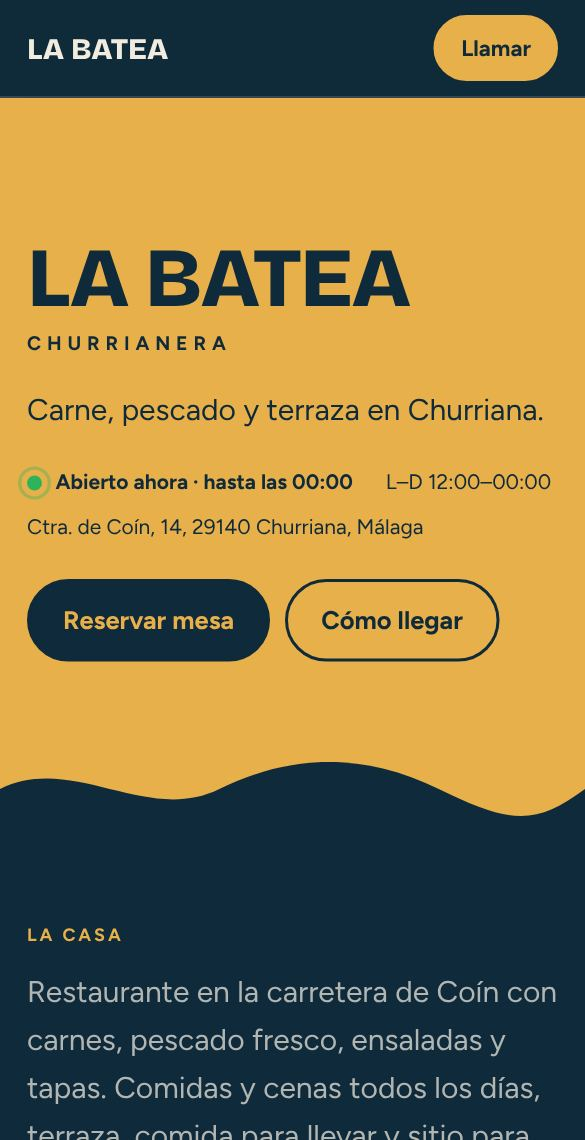
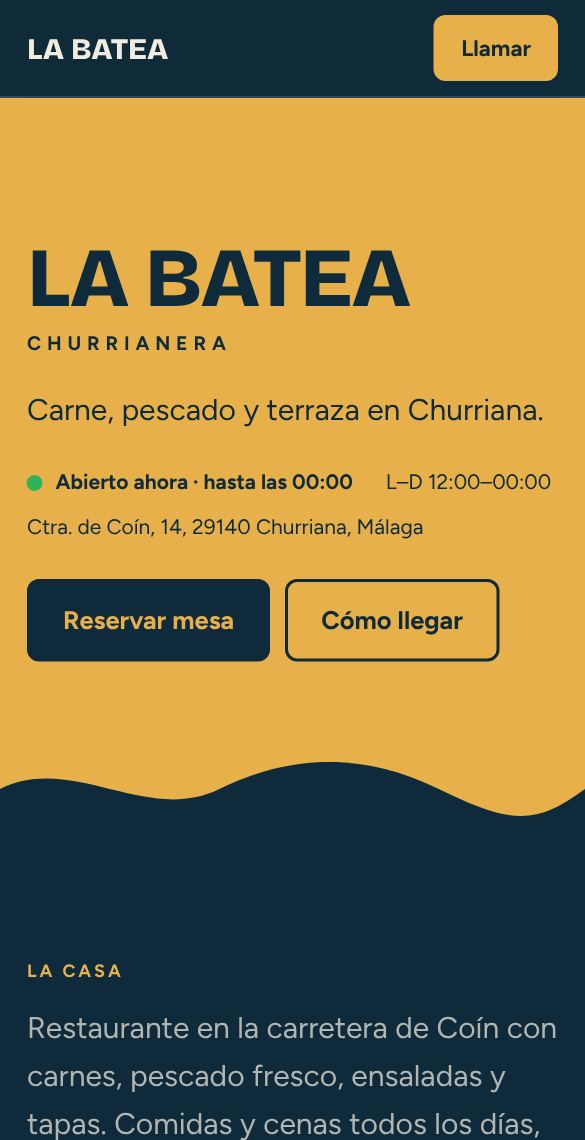
Reservas con botones propios, mapa integrado y más diferencias entre demos
- Reserva sin selectores del sistema: botones para qué, día (solo los que
  abre) y hora (cada media hora según el horario), y contador de personas
- Mapa de OpenStreetMap integrado, en tarjeta, a todo lo ancho o enmarcado
- Horario en cuatro vistas: filas, semana en casillas, agrupado y «hoy»
- Esquinas redondas, suaves o rectas en todo (botones, campos y tarjetas) y
  secciones separadas por líneas, bandas alternas o solo aire

Claude-Session: https://claude.ai/code/session_01Y5Q5chJFMzg78rRPrtv29V

diff --git a/src/styles/demo.css b/src/styles/demo.css
@@ -5,7 +5,9 @@
   --linea: color-mix(in srgb, var(--tinta) 16%, var(--fondo));
   --panel: color-mix(in srgb, var(--tinta) 6%, var(--fondo));
   --texto: 'Figtree Variable', system-ui, -apple-system, 'Segoe UI', sans-serif;
-  --radio: 14px;
+  --radio: 16px;
+  --radio-boton: 999px;
+  --radio-campo: 12px;
   --abierto: #2fb35a;
   --cerrado: #d0573f;
   color-scheme: dark light;
@@ -43,7 +45,7 @@ p { margin: 0; }
 /* Botones */
 .boton {
   display: inline-flex; align-items: center; justify-content: center; gap: 8px; min-height: 48px;
-  padding: 12px 22px; border-radius: 999px; font: inherit; font-weight: 700; text-decoration: none; cursor: pointer;
+  padding: 12px 22px; border-radius: var(--radio-boton); font: inherit; font-weight: 700; text-decoration: none; cursor: pointer;
   border: 2px solid var(--tinta); background: transparent; color: var(--tinta);
 }
 .boton.principal { background: var(--acento); border-color: var(--acento); color: var(--sobre-acento); }
@@ -96,12 +98,12 @@ p { margin: 0; }
 
 /* Carta */
 .saltos { display: flex; flex-wrap: wrap; gap: 8px; margin-bottom: 28px; }
-.saltos a { text-decoration: none; font-size: 13px; font-weight: 700; letter-spacing: .08em; text-transform: uppercase; padding: 8px 14px; border: 1px solid var(--linea); border-radius: 999px; }
+.saltos a { text-decoration: none; font-size: 13px; font-weight: 700; letter-spacing: .08em; text-transform: uppercase; padding: 8px 14px; border: 1px solid var(--linea); border-radius: var(--radio-boton); }
 .saltos a:hover { border-color: var(--acento); }
 .grupos { display: grid; gap: 22px; }
 @media (min-width: 900px) { .grupos { grid-template-columns: repeat(2, minmax(0, 1fr)); align-items: start; } }
 .grupo { border: 1px solid var(--linea); border-radius: var(--radio); padding: 22px; background: var(--panel); }
-.grupo h3 { display: inline-block; background: var(--acento); color: var(--sobre-acento); font-family: var(--texto); font-size: 13px; letter-spacing: .14em; text-transform: uppercase; padding: 4px 10px; border-radius: 6px; margin-bottom: 14px; }
+.grupo h3 { display: inline-block; background: var(--acento); color: var(--sobre-acento); font-family: var(--texto); font-size: 13px; letter-spacing: .14em; text-transform: uppercase; padding: 4px 10px; border-radius: var(--radio-campo); margin-bottom: 14px; }
 .platos { list-style: none; margin: 0; padding: 0; }
 .plato { width: 100%; display: grid; grid-template-columns: minmax(0, 1fr) auto; gap: 4px 16px; text-align: left; background: none; border: 0; border-bottom: 1px dashed var(--linea); padding: 12px 0; font: inherit; color: inherit; cursor: pointer; }
 .platos li:last-child .plato { border-bottom: 0; }
@@ -113,9 +115,9 @@ p { margin: 0; }
 .nota-carta { color: var(--suave); font-size: 14px; margin-top: 18px; }
 
 /* Lista de lo que te vas a pedir */
-.tira { position: fixed; left: 50%; transform: translateX(-50%); bottom: calc(86px + env(safe-area-inset-bottom, 0px)); z-index: 35; display: flex; align-items: center; gap: 12px; background: var(--acento); color: var(--sobre-acento); border: 0; border-radius: 999px; padding: 12px 20px; font: inherit; font-weight: 700; box-shadow: 0 10px 30px rgb(0 0 0 / .35); cursor: pointer; white-space: nowrap; }
+.tira { position: fixed; left: 50%; transform: translateX(-50%); bottom: calc(86px + env(safe-area-inset-bottom, 0px)); z-index: 35; display: flex; align-items: center; gap: 12px; background: var(--acento); color: var(--sobre-acento); border: 0; border-radius: var(--radio-boton); padding: 12px 20px; font: inherit; font-weight: 700; box-shadow: 0 10px 30px rgb(0 0 0 / .35); cursor: pointer; white-space: nowrap; }
 @media (min-width: 900px) { .tira { bottom: 24px; } }
-.lista-dialogo { border: 0; border-radius: 18px; padding: 0; width: min(440px, calc(100vw - 24px)); background: var(--fondo); color: var(--tinta); box-shadow: 0 30px 80px rgb(0 0 0 / .5); }
+.lista-dialogo { border: 0; border-radius: var(--radio); padding: 0; width: min(440px, calc(100vw - 24px)); background: var(--fondo); color: var(--tinta); box-shadow: 0 30px 80px rgb(0 0 0 / .5); }
 .lista-dialogo::backdrop { background: rgb(0 0 0 / .55); }
 .lista-cuerpo { padding: 22px; display: grid; gap: 14px; }
 .lista-cuerpo ul { list-style: none; margin: 0; padding: 0; display: grid; gap: 8px; }
@@ -130,7 +132,7 @@ p { margin: 0; }
 .formulario { display: grid; gap: 14px; background: var(--panel); border: 1px solid var(--linea); border-radius: var(--radio); padding: 22px; }
 .fila { display: grid; grid-template-columns: repeat(auto-fit, minmax(140px, 1fr)); gap: 14px; }
 .formulario label { display: grid; gap: 6px; font-size: 14px; font-weight: 700; }
-.formulario input, .formulario select, .formulario textarea { font: inherit; font-weight: 400; color: var(--tinta); background: var(--fondo); border: 1px solid var(--linea); border-radius: 10px; padding: 11px 12px; min-height: 46px; width: 100%; }
+.formulario input, .formulario select, .formulario textarea { font: inherit; font-weight: 400; color: var(--tinta); background: var(--fondo); border: 1px solid var(--linea); border-radius: var(--radio-campo); padding: 11px 12px; min-height: 46px; width: 100%; }
 .formulario textarea { min-height: 80px; resize: vertical; }
 .formulario .ayuda { font-size: 13px; color: var(--suave); }
 
@@ -138,13 +140,12 @@ p { margin: 0; }
 .resena { display: grid; gap: 10px; }
 .estrellas { color: var(--acento); letter-spacing: 2px; }
 
-/* Horario y dónde */
-.donde { display: grid; gap: 28px; }
-@media (min-width: 900px) { .donde { grid-template-columns: repeat(2, minmax(0, 1fr)); } }
-.horario { width: 100%; border-collapse: collapse; font-variant-numeric: tabular-nums; }
-.horario th, .horario td { text-align: left; padding: 10px 0; border-bottom: 1px solid var(--linea); }
-.horario td { text-align: right; }
-.horario tr.hoy th, .horario tr.hoy td { color: var(--acento); font-weight: 700; }
+/* Dónde y horario */
+.donde { display: grid; gap: 32px; }
+@media (min-width: 900px) {
+  .donde { grid-template-columns: repeat(2, minmax(0, 1fr)); }
+  .donde .mapa { grid-column: 1 / -1; }
+}
 .direccion { font-size: 20px; font-weight: 700; }
 
 /* Preguntas */
@@ -157,15 +158,14 @@ p { margin: 0; }
 
 /* Barra fija del móvil */
 .barra-movil { position: fixed; inset: auto 0 0 0; z-index: 40; display: grid; grid-template-columns: repeat(3, 1fr); gap: 8px; padding: 8px max(10px, env(safe-area-inset-right, 0px)) calc(8px + env(safe-area-inset-bottom, 0px)) max(10px, env(safe-area-inset-left, 0px)); background: color-mix(in srgb, var(--fondo) 94%, transparent); backdrop-filter: blur(12px); border-top: 1px solid var(--linea); }
-.barra-movil a { display: flex; align-items: center; justify-content: center; min-height: 52px; border-radius: 14px; background: var(--panel); border: 1px solid var(--linea); font-weight: 700; font-size: 15px; text-decoration: none; }
+.barra-movil a { display: flex; align-items: center; justify-content: center; min-height: 52px; border-radius: var(--radio-campo); background: var(--panel); border: 1px solid var(--linea); font-weight: 700; font-size: 15px; text-decoration: none; }
 .barra-movil a.fuerte { background: var(--acento); color: var(--sobre-acento); border-color: var(--acento); }
 @media (min-width: 900px) { .barra-movil { display: none; } }
 
 /* ── Variantes: cada negocio combina portada, adorno, carta y forma ─────── */
 
-[data-forma='recto'] { --radio: 3px; }
-[data-forma='recto'] .boton { border-radius: 4px; }
-[data-forma='recto'] .barra-movil a { border-radius: 4px; }
+[data-forma='suave'] { --radio: 8px; --radio-boton: 8px; --radio-campo: 6px; }
+[data-forma='recto'] { --radio: 0px; --radio-boton: 0px; --radio-campo: 0px; }
 
 .plato .puntos { display: none; }
 
@@ -218,3 +218,63 @@ p { margin: 0; }
 /* Aviso del modo prueba */
 .aviso-prueba { position: relative; background: #1f6feb; color: #fff; font-size: 14px; font-weight: 600; text-align: center; padding: 10px max(18px, env(safe-area-inset-left, 0px)); }
 .aviso-prueba a { color: #fff; }
+
+
+/* ── Secciones: líneas, bandas alternas o solo aire ────────────────────── */
+[data-secciones='bandas'] .seccion + .seccion { border-top: 0; }
+[data-secciones='bandas'] main > .seccion:nth-of-type(odd) { background: var(--panel); }
+[data-secciones='aire'] .seccion + .seccion { border-top: 0; }
+[data-secciones='aire'] .seccion { padding-block: 88px; }
+
+/* ── Mapa integrado ────────────────────────────────────────────────────── */
+.mapa { margin: 0; overflow: hidden; border-radius: var(--radio); border: 1px solid var(--linea); background: var(--panel); }
+.mapa iframe { display: block; width: 100%; height: 320px; border: 0; }
+.mapa-grande { border-radius: 0; border-inline: 0; margin-inline: calc(-1 * max(18px, env(safe-area-inset-left, 0px))); }
+.mapa-grande iframe { height: 420px; }
+@media (min-width: 1080px) { .mapa-grande { margin-inline: calc((1080px - 100vw) / 2); } }
+.mapa-enmarcado { padding: 10px; border: 1px solid var(--acento); outline: 1px solid var(--linea); outline-offset: 5px; }
+.mapa-enmarcado iframe { filter: sepia(.35) saturate(.8); height: 300px; }
+
+/* ── Horario: cuatro vistas ────────────────────────────────────────────── */
+.h-filas { width: 100%; border-collapse: collapse; font-variant-numeric: tabular-nums; }
+.h-filas th, .h-filas td { text-align: left; padding: 10px 0; border-bottom: 1px solid var(--linea); }
+.h-filas td { text-align: right; }
+.h-filas tr.hoy th, .h-filas tr.hoy td { color: var(--acento); font-weight: 700; }
+
+.h-semana { list-style: none; margin: 0; padding: 0; display: grid; grid-template-columns: repeat(7, minmax(0, 1fr)); gap: 6px; font-variant-numeric: tabular-nums; }
+.h-semana li { display: grid; gap: 4px; justify-items: center; padding: 12px 2px; border-radius: var(--radio-campo); background: var(--panel); border: 1px solid var(--linea); font-size: 12px; text-align: center; }
+.h-semana b { font-family: var(--display); font-size: 22px; line-height: 1; }
+.h-semana .cerrado { color: var(--suave); writing-mode: vertical-rl; transform: rotate(180deg); }
+.h-semana li.hoy { background: var(--acento); color: var(--sobre-acento); border-color: var(--acento); }
+
+.h-agrupado { list-style: none; margin: 0; padding: 0; display: grid; gap: 18px; text-align: center; }
+.h-agrupado li { display: grid; gap: 2px; }
+.h-agrupado span { font-size: 13px; letter-spacing: .16em; text-transform: uppercase; color: var(--suave); }
+.h-agrupado strong { font-family: var(--display); font-size: 26px; font-weight: 500; font-variant-numeric: tabular-nums; }
+.h-agrupado li.hoy span { color: var(--acento); }
+[data-estilo='elegante'] .donde-horario .cabeza { text-align: center; }
+
+.h-hoy { display: grid; gap: 14px; }
+.h-hoy-etq { font-size: 13px; font-weight: 700; letter-spacing: .16em; text-transform: uppercase; color: var(--acento); }
+.h-hoy-horas { font-family: var(--display); font-weight: 800; font-size: clamp(36px, 9vw, 56px); line-height: 1; font-variant-numeric: tabular-nums; }
+.h-resto { list-style: none; margin: 0; padding: 0; color: var(--suave); font-size: 15px; display: grid; gap: 4px; }
+.h-resto li.hoy { color: var(--tinta); }
+
+/* ── Reserva con botones propios (sin selectores del sistema) ──────────── */
+.paso { border: 0; margin: 0; padding: 0; display: grid; gap: 10px; min-width: 0; }
+.paso legend { font-size: 14px; font-weight: 700; padding: 0; margin-bottom: 10px; }
+.chips { display: flex; flex-wrap: wrap; gap: 8px; }
+.chips.desliza { flex-wrap: nowrap; overflow-x: auto; scrollbar-width: none; padding-bottom: 4px; margin-inline: -4px; padding-inline: 4px; scroll-snap-type: x proximity; }
+.chips.desliza::-webkit-scrollbar { display: none; }
+.chip { position: relative; flex: none; scroll-snap-align: start; }
+.chip input { position: absolute; opacity: 0; pointer-events: none; }
+.chip span { display: grid; justify-items: center; gap: 2px; min-width: 64px; min-height: 46px; align-content: center; padding: 8px 14px; border: 1.5px solid var(--linea); border-radius: var(--radio-campo); background: var(--fondo); font-weight: 700; font-size: 15px; cursor: pointer; font-variant-numeric: tabular-nums; }
+.chip.dia span { text-transform: capitalize; }
+.chip small { font-weight: 400; font-size: 12px; color: var(--suave); text-transform: none; }
+.chip input:checked + span { background: var(--acento); border-color: var(--acento); color: var(--sobre-acento); }
+.chip input:checked + span small { color: inherit; opacity: .8; }
+.chip input:focus-visible + span { outline: 3px solid var(--acento); outline-offset: 2px; }
+.contador { display: inline-grid; grid-template-columns: 52px 64px 52px; align-items: center; border: 1.5px solid var(--linea); border-radius: var(--radio-campo); overflow: hidden; justify-self: start; }
+.contador button { height: 50px; border: 0; background: var(--panel); color: var(--tinta); font: inherit; font-size: 24px; cursor: pointer; }
+.contador output { text-align: center; font-weight: 800; font-size: 20px; font-variant-numeric: tabular-nums; }
+.aviso-reserva { color: var(--cerrado); font-weight: 700; }

diff --git a/src/scripts/reserva.ts b/src/scripts/reserva.ts
@@ -1,24 +1,90 @@
-// Reserva sin servidor ni API de pago: el formulario monta el mensaje y abre
-// WhatsApp con él escrito. Si el negocio no tiene WhatsApp, lleva al teléfono.
-export function iniciarReserva(negocio: string) {
+// Reserva sin servidor ni API de pago, y sin los selectores del sistema (el
+// desplegable y el calendario de Android rompen el diseño): días y horas son
+// botones generados con el horario del local. Al enviar se abre WhatsApp con el
+// mensaje ya escrito; si el negocio no tiene WhatsApp, lleva al teléfono.
+import { porDia, aMinutos, ahoraEnMadrid, type Dia } from '../lib/horario';
+
+type Tramo = { dia: Dia; abre: string; cierra: string };
+const DIA_JS: Dia[] = ['domingo', 'lunes', 'martes', 'miercoles', 'jueves', 'viernes', 'sabado'];
+const hh = (m: number) => `${String(Math.floor(m / 60) % 24).padStart(2, '0')}:${String(m % 60).padStart(2, '0')}`;
+
+/** Horas de reserva de un día: cada media hora, hasta una hora antes de cerrar. */
+function horasDe(semana: ReturnType<typeof porDia>, dia: Dia, desde = 0) {
+  const tramos = semana[dia];
+  const lista: string[] = [];
+  const fuente = tramos.length ? tramos : [{ abre: '13:00', cierra: '23:00' }];
+  for (const t of fuente) {
+    const a = aMinutos(t.abre);
+    let c = aMinutos(t.cierra);
+    if (c <= a) c += 1440;
+    for (let m = Math.ceil(a / 30) * 30; m <= c - 60; m += 30) if (m >= desde) lista.push(hh(m));
+  }
+  return lista;
+}
+
+function boton(texto: string, valor: string, nombre: string, sub = '', clase = '') {
+  const label = document.createElement('label');
+  label.className = `chip ${clase}`.trim();
+  label.innerHTML = `<input type="radio" name="${nombre}" value="${valor}"><span>${texto}${sub ? `<small>${sub}</small>` : ''}</span>`;
+  return label;
+}
+
+export function iniciarReserva(negocio: string, horario: Tramo[]) {
   const form = document.querySelector<HTMLFormElement>('[data-reserva]');
   if (!form) return;
-  const dia = form.querySelector<HTMLInputElement>('#r-dia');
-  if (dia) {
-    const hoy = new Date();
-    dia.min = new Date(hoy.getTime() - hoy.getTimezoneOffset() * 60_000).toISOString().slice(0, 10);
+  const semana = porDia(horario);
+  const conHorario = horario.length > 0;
+  const dias = form.querySelector<HTMLElement>('[data-dias-reserva]')!;
+  const horas = form.querySelector<HTMLElement>('[data-horas-reserva]')!;
+  const aviso = form.querySelector<HTMLElement>('[data-aviso-reserva]')!;
+
+  // Próximos 14 días, saltando los que el local cierra.
+  const hoy = new Date();
+  const { dia: diaHoy, minuto } = ahoraEnMadrid();
+  dias.replaceChildren();
+  for (let i = 0; i < 14; i++) {
+    const f = new Date(hoy.getFullYear(), hoy.getMonth(), hoy.getDate() + i);
+    const dia = i === 0 ? diaHoy : DIA_JS[f.getDay()];
+    if (conHorario && !semana[dia].length) continue;
+    if (i === 0 && !horasDe(semana, dia, minuto + 30).length) continue;
+    const iso = `${f.getFullYear()}-${String(f.getMonth() + 1).padStart(2, '0')}-${String(f.getDate()).padStart(2, '0')}`;
+    const nombre = i === 0 ? 'Hoy' : i === 1 ? 'Mañana' : f.toLocaleDateString('es-ES', { weekday: 'short' }).replace('.', '');
+    dias.append(boton(nombre, `${iso}|${dia}|${i}`, 'dia', f.toLocaleDateString('es-ES', { day: 'numeric', month: 'short' }).replace('.', ''), 'dia'));
   }
+
+  dias.addEventListener('change', () => {
+    const [, dia, i] = (new FormData(form).get('dia') as string).split('|');
+    const lista = horasDe(semana, dia as Dia, i === '0' ? minuto + 30 : 0);
+    horas.replaceChildren(...lista.map((h) => boton(h, h, 'hora')));
+    horas.closest('[data-paso-hora]')!.removeAttribute('hidden');
+  });
+
+  const personas = form.querySelector<HTMLOutputElement>('[data-personas]');
+  form.querySelectorAll<HTMLButtonElement>('[data-mas],[data-menos]').forEach((b) =>
+    b.addEventListener('click', () => {
+      const v = Math.min(40, Math.max(1, Number(personas!.value) + (b.hasAttribute('data-mas') ? 1 : -1)));
+      personas!.value = String(v);
+    }),
+  );
+
   form.addEventListener('submit', (e) => {
     e.preventDefault();
     const datos = new FormData(form);
     const v = (k: string) => String(datos.get(k) ?? '').trim();
-    const fecha = v('dia') ? new Date(`${v('dia')}T12:00`).toLocaleDateString('es-ES', { weekday: 'long', day: 'numeric', month: 'long' }) : '';
+    if (!v('dia') || !v('hora')) {
+      aviso.textContent = !v('dia') ? 'Elige el día.' : 'Elige la hora.';
+      aviso.hidden = false;
+      return;
+    }
+    aviso.hidden = true;
+    const [iso] = v('dia').split('|');
+    const fecha = new Date(`${iso}T12:00`).toLocaleDateString('es-ES', { weekday: 'long', day: 'numeric', month: 'long' });
     const lineas = [
       `Hola, quería reservar en ${negocio}.`,
       v('opcion') && `Para: ${v('opcion')}`,
-      fecha && `Día: ${fecha}`,
-      v('hora') && `Hora: ${v('hora')}`,
-      v('personas') && `Personas: ${v('personas')}`,
+      `Día: ${fecha}`,
+      `Hora: ${v('hora')}`,
+      personas && `Personas: ${personas.value}`,
       v('nombre') && `A nombre de: ${v('nombre')}`,
       v('nota') && `Nota: ${v('nota')}`,
     ].filter(Boolean);
@@ -27,3 +93,4 @@ export function iniciarReserva(negocio: string) {
     if (destino) window.location.href = destino;
   });
 }
+

diff --git a/src/lib/vista-horario.ts b/src/lib/vista-horario.ts
@@ -1,0 +1,39 @@
+// El horario se puede enseñar de cuatro maneras, para que cada web tenga la
+// suya. Devuelve HTML para que lo usen igual la página al compilar y el modo
+// prueba del panel en el navegador. «Hoy» lo marca el navegador después.
+import { DIAS, NOMBRE_DIA, agrupar, formatoTramo, type HorarioSemana } from './horario';
+
+export type VistaHorario = 'filas' | 'semana' | 'agrupado' | 'hoy';
+
+const INICIAL: Record<string, string> = { lunes: 'L', martes: 'M', miercoles: 'X', jueves: 'J', viernes: 'V', sabado: 'S', domingo: 'D' };
+
+export function htmlHorario(vista: VistaHorario, semana: HorarioSemana): string {
+  if (vista === 'semana') {
+    return `<ol class="h-semana">${DIAS.map((d) => {
+      const t = semana[d];
+      const horas = t.length ? t.map((x) => `<span>${x.abre}</span><span>${x.cierra}</span>`).join('') : '<span class="cerrado">Cerrado</span>';
+      return `<li data-dia="${d}"><b title="${NOMBRE_DIA[d]}">${INICIAL[d]}</b>${horas}</li>`;
+    }).join('')}</ol>`;
+  }
+  const grupos = agrupar(semana);
+  if (vista === 'agrupado') {
+    return `<ul class="h-agrupado">${grupos
+      .map((g) => `<li data-dias="${g.claves.join(',')}"><span>${g.dias}</span><strong>${g.tramos.length ? g.tramos.join(' · ') : 'Cerrado'}</strong></li>`)
+      .join('')}</ul>`;
+  }
+  if (vista === 'hoy') {
+    return `<div class="h-hoy"><p class="h-hoy-etq">Hoy</p><p class="h-hoy-horas" data-hoy>${grupos[0]?.tramos.join(' · ') || 'Cerrado'}</p>
+      <ul class="h-resto">${grupos.map((g) => `<li data-dias="${g.claves.join(',')}"><span>${g.dias}</span> ${g.tramos.length ? g.tramos.join(' · ') : 'cerrado'}</li>`).join('')}</ul></div>`;
+  }
+  return `<table class="h-filas"><tbody>${DIAS.map(
+    (d) => `<tr data-dia="${d}"><th scope="row">${NOMBRE_DIA[d]}</th><td>${semana[d].length ? semana[d].map(formatoTramo).join(' · ') : 'Cerrado'}</td></tr>`,
+  ).join('')}</tbody></table>`;
+}
+
+/** Marca el día de hoy en cualquiera de las vistas y rellena «Hoy» si la vista lo tiene. */
+export function marcarHoy(raiz: ParentNode, dia: string, semana: HorarioSemana) {
+  raiz.querySelectorAll<HTMLElement>('[data-dia]').forEach((el) => el.classList.toggle('hoy', el.dataset.dia === dia));
+  raiz.querySelectorAll<HTMLElement>('[data-dias]').forEach((el) => el.classList.toggle('hoy', (el.dataset.dias ?? '').split(',').includes(dia)));
+  const hoy = semana[dia as keyof HorarioSemana] ?? [];
+  raiz.querySelectorAll<HTMLElement>('[data-hoy]').forEach((el) => (el.textContent = hoy.length ? hoy.map(formatoTramo).join(' · ') : 'Hoy cerramos'));
+}

diff --git a/src/scripts/prueba.ts b/src/scripts/prueba.ts
@@ -1,7 +1,8 @@
 // Modo prueba del panel de las demos. El panel guarda los cambios en el propio
 // navegador (localStorage) y la web los aplica al abrirse con ?prueba. Nada se
 // publica: sirve para que el dueño del negocio vea cómo cambiaría su web.
-import { porDia, resumenCorto, formatoTramo, type Dia } from '../lib/horario';
+import { porDia, resumenCorto, type Dia } from '../lib/horario';
+import { htmlHorario, type VistaHorario } from '../lib/vista-horario';
 
 export type Prueba = {
   eslogan?: string;
@@ -45,9 +46,8 @@ export function aplicarPrueba(datos: { slug: string; horario: unknown[]; admin: 
     datos.horario = p.horario;
     const semana = porDia(p.horario);
     document.querySelectorAll('[data-campo="resumen"]').forEach((el) => (el.textContent = resumenCorto(semana) || 'Cerrado'));
-    document.querySelectorAll<HTMLElement>('tr[data-dia]').forEach((fila) => {
-      const tramos = semana[fila.dataset.dia as Dia] ?? [];
-      fila.querySelector('td')!.textContent = tramos.length ? tramos.map(formatoTramo).join(' · ') : 'Cerrado';
+    document.querySelectorAll<HTMLElement>('[data-vista-horario]').forEach((caja) => {
+      caja.innerHTML = htmlHorario(caja.dataset.vistaHorario as VistaHorario, semana);
     });
   }
   const grupos = document.querySelector('[data-carta-grupos]');

diff --git a/src/lib/negocios.ts b/src/lib/negocios.ts
@@ -28,7 +28,12 @@ export type Negocio = {
     adorno?: 'ninguno' | 'toldo' | 'cuadricula' | 'olas';
     /** Carta en tarjetas por sección o como una carta impresa de una columna. */
     carta?: 'tarjetas' | 'menu';
-    forma?: 'redondo' | 'recto';
+    /** Esquinas: redondo (botones de píldora), suave (8 px) o recto. */
+    forma?: 'redondo' | 'suave' | 'recto';
+    horario?: 'filas' | 'semana' | 'agrupado' | 'hoy';
+    mapa?: 'tarjeta' | 'grande' | 'enmarcado';
+    /** Cómo se separan las secciones: líneas, bandas de color alternas o solo aire. */
+    secciones?: 'lineas' | 'bandas' | 'aire';
   };
   contacto: {
     telefono?: string;
@@ -44,6 +49,8 @@ export type Negocio = {
     ciudad: string;
     comoLlegar?: string;
     mapa?: string;
+    /** Coordenadas para el mapa integrado (OpenStreetMap). */
+    geo?: { lat: number; lng: number };
   };
   horario: { dia: Dia; abre: string; cierra: string }[];
   horarioNota?: string;
